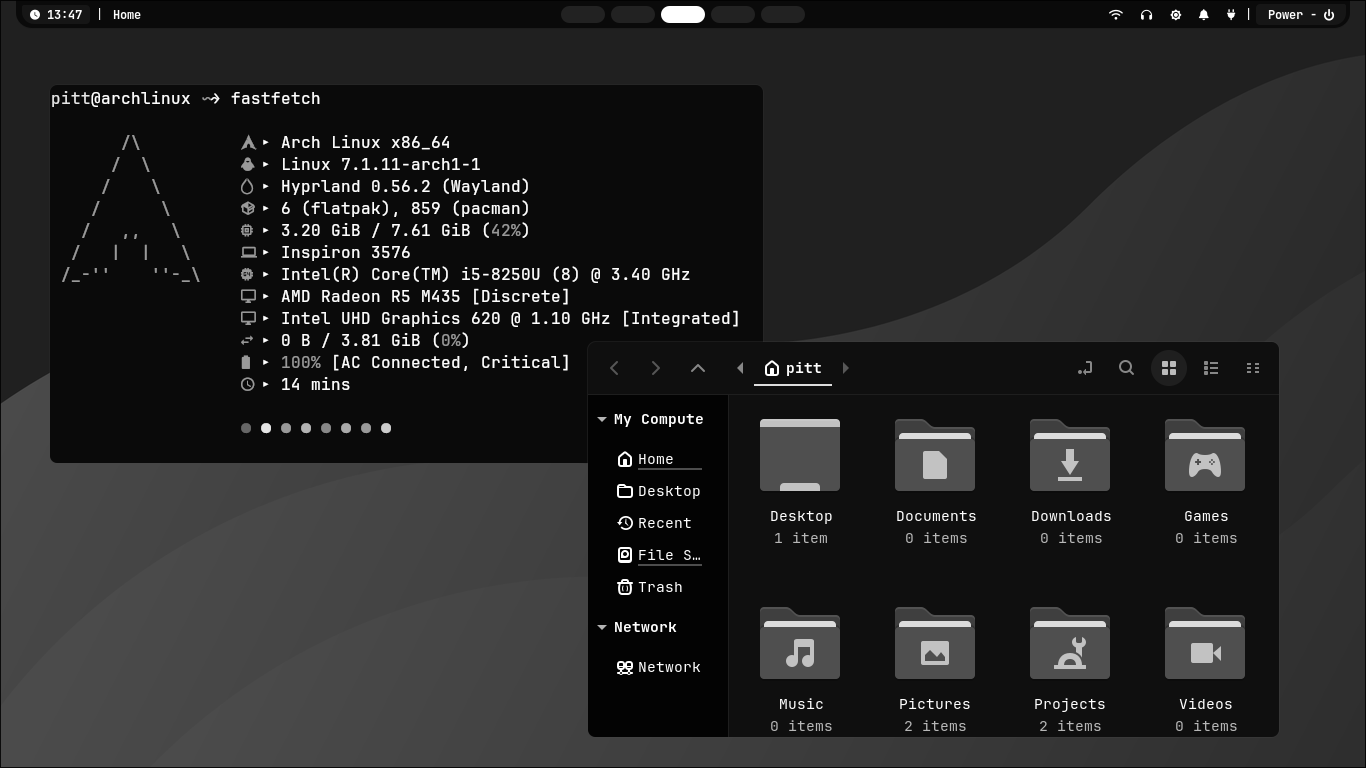
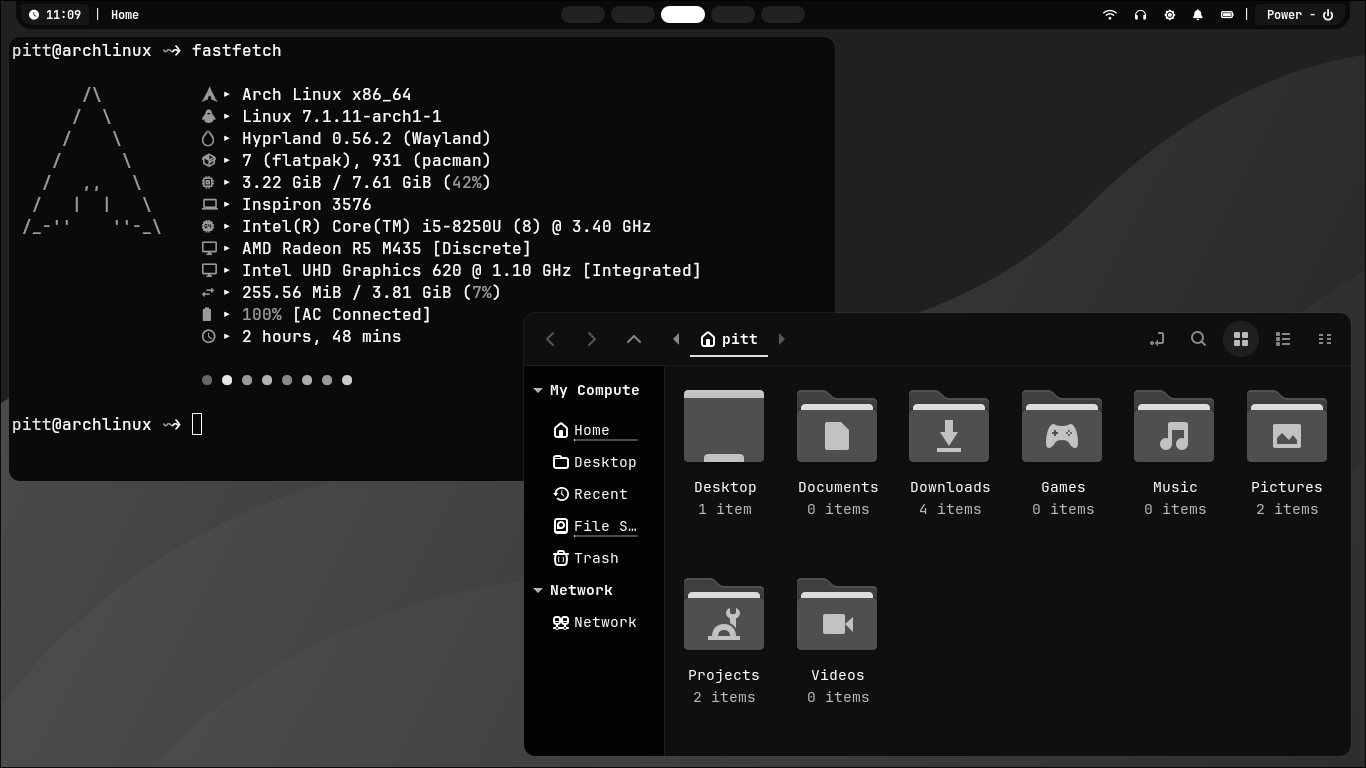
mudando o powermenu de lugar

diff --git a/README.md b/README.md
@@ -67,6 +67,7 @@ Após a instalação, existem alguns passos manuais para deixar tudo funcionando
 ![Desktop](/previews/desktop.png)
 ![Rofi](/previews/rofi.png)
 ![Wallpicker](/previews/wallpicker.png)
+![Powermenu](/previews/powermenu.png)
 ![Swaync](/previews/swaync.png)
 ![GTK/Terminal](/previews/gtkandterminal.png)
 
